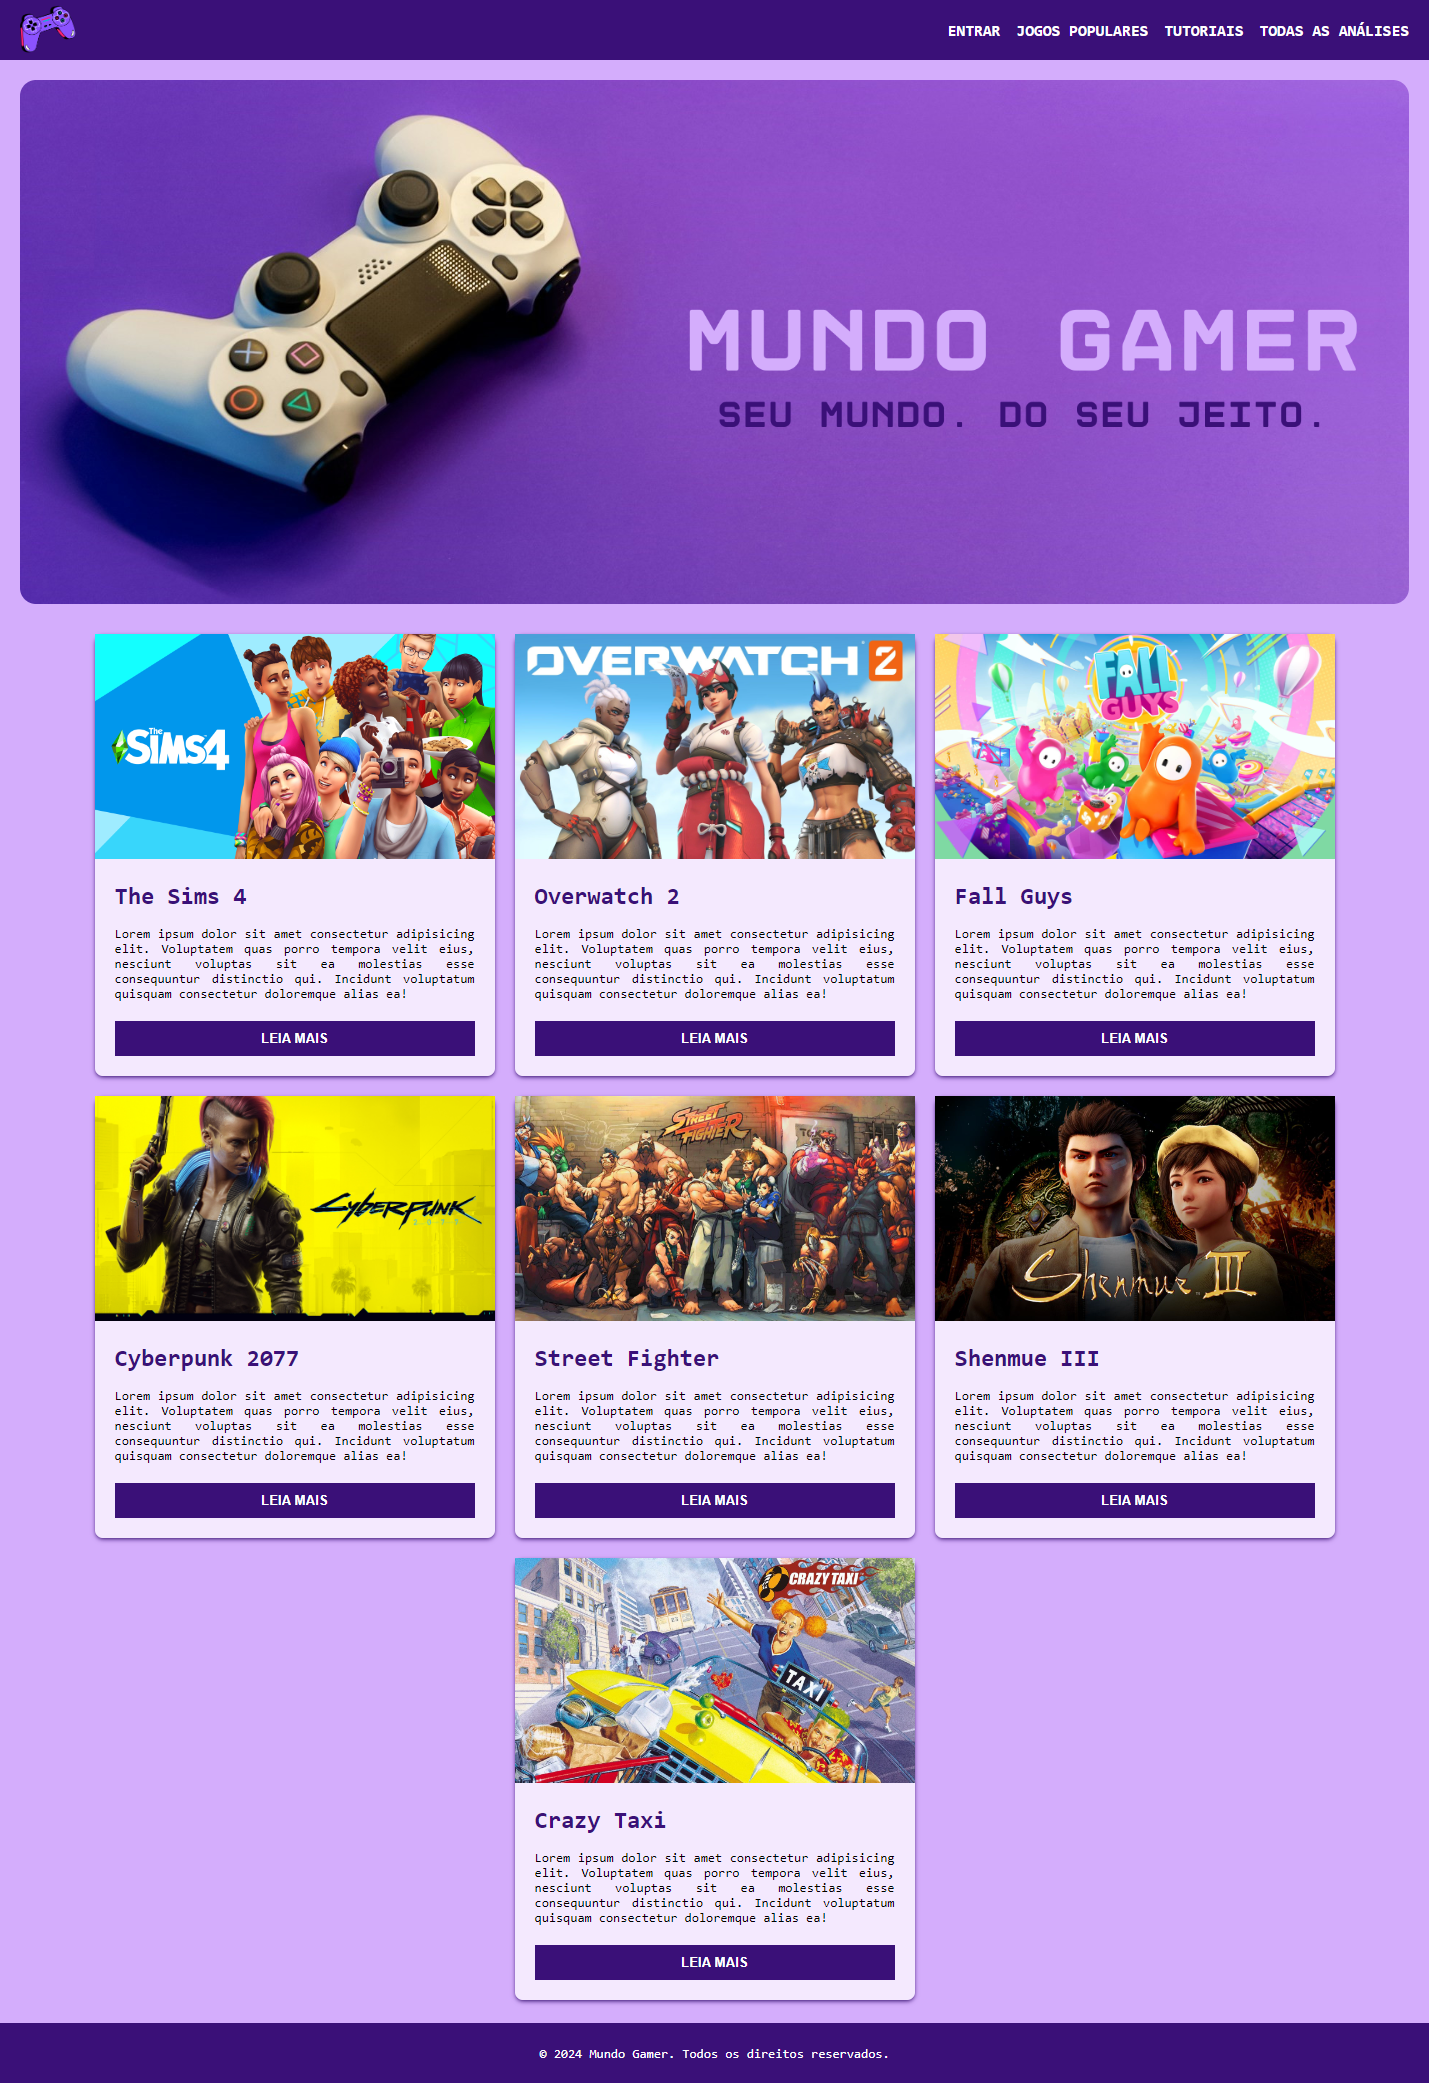
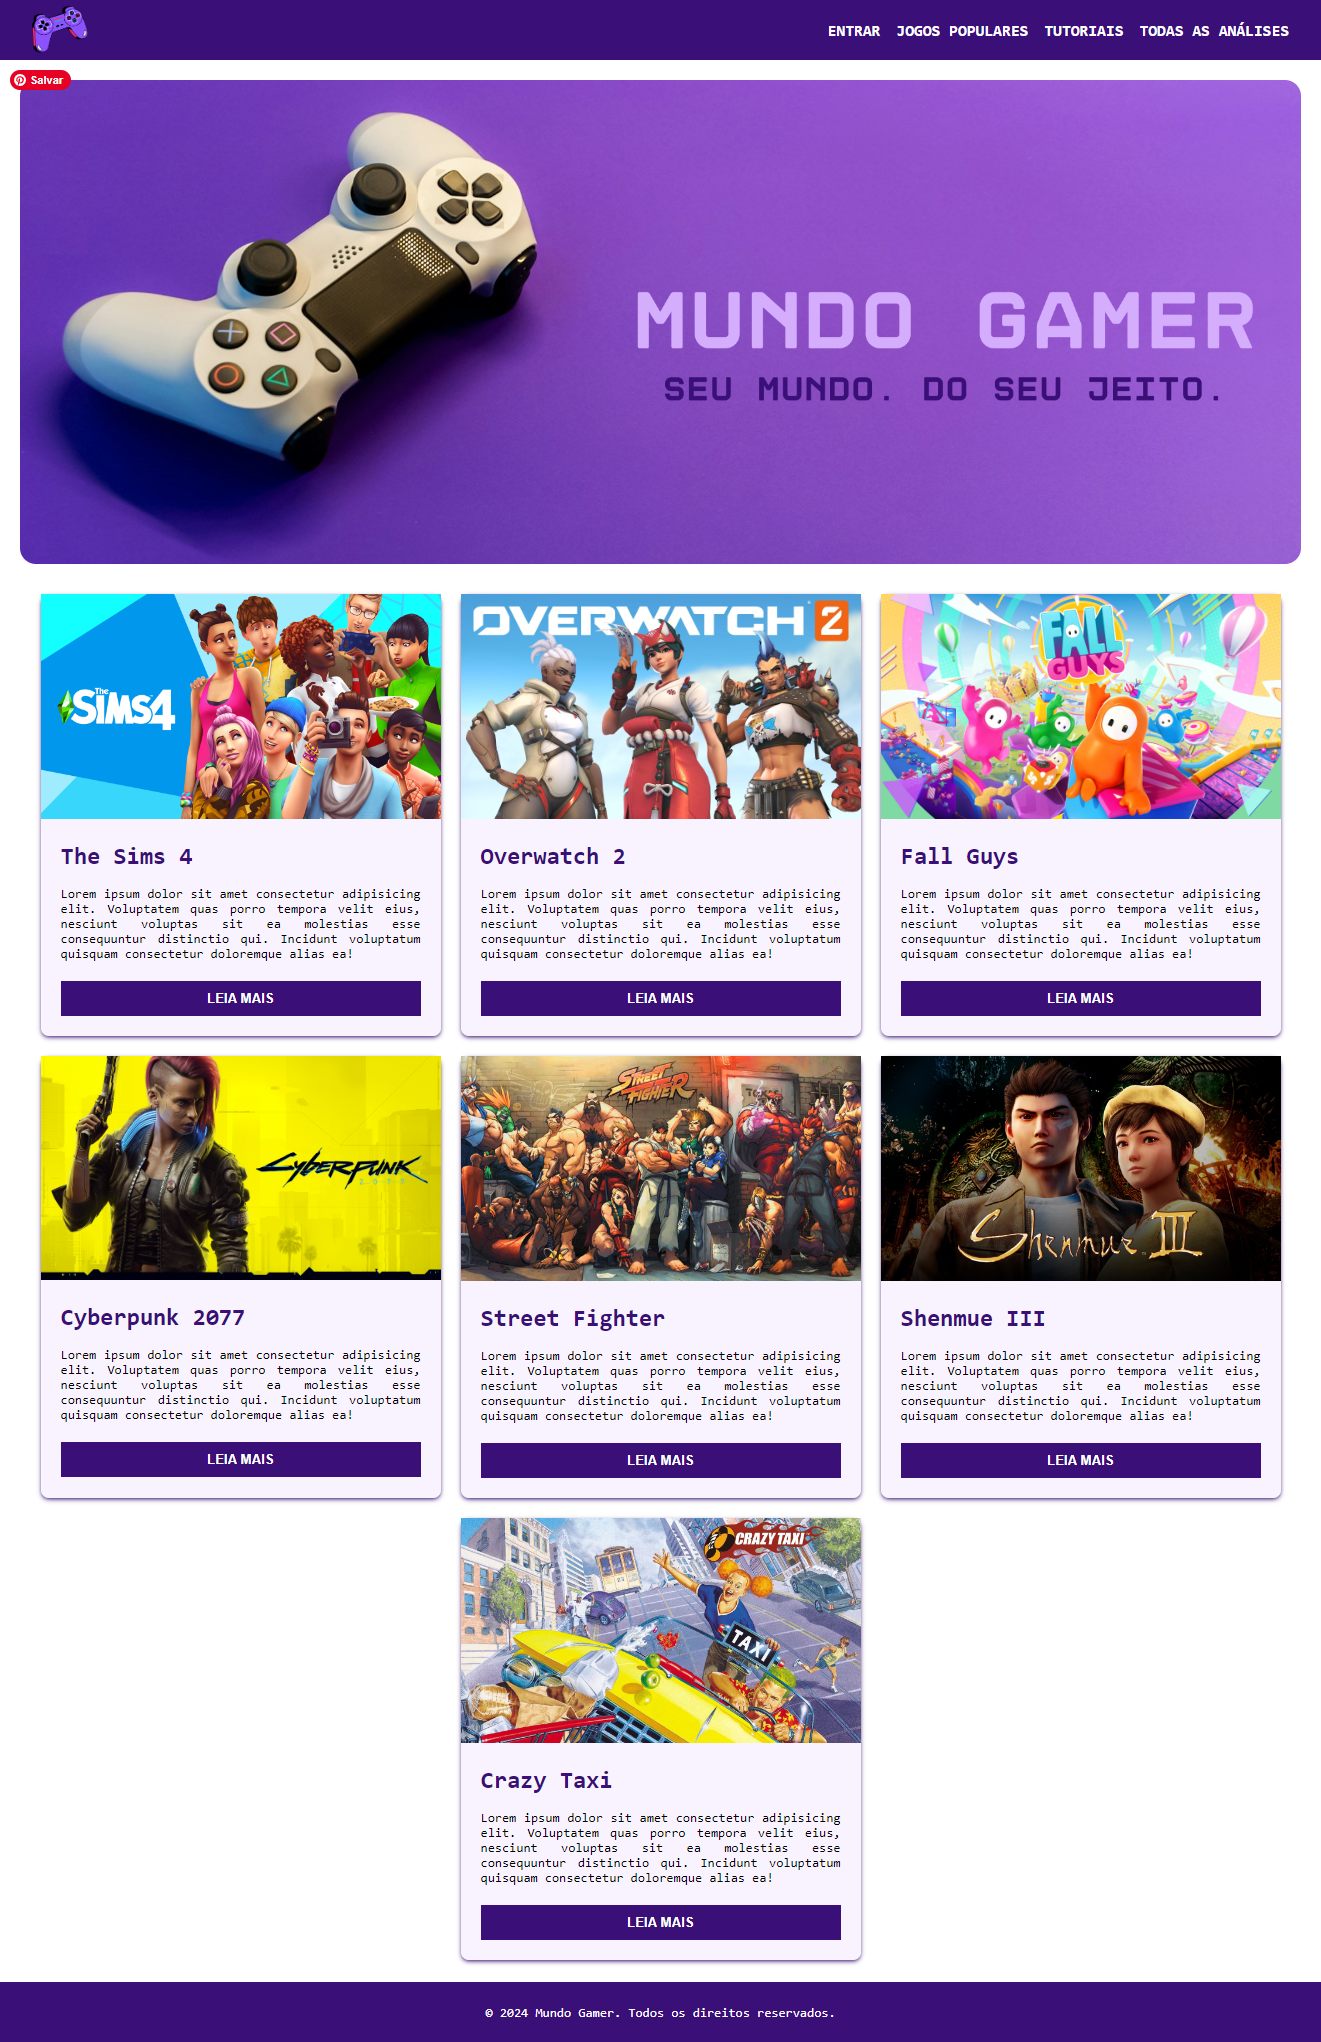
Alerando cor do body

diff --git a/Etapa02/REACT/semana01-projeto/src/components/Card.css b/Etapa02/REACT/semana01-projeto/src/components/Card.css
@@ -9,7 +9,7 @@
   margin: 0.625rem;
   box-shadow: rgb(58, 16, 120) 0px 2px 5px -1px, rgba(0, 0, 0, 0.3) 0px 1px 3px -1px;
   border-radius: 0.5rem;
-  background-color: #ffffffbb;
+  background-color: rgba(246, 236, 255, 0.644);
 }
 .card img {
   max-width: 100%;

diff --git a/Etapa02/REACT/semana01-projeto/src/index.css b/Etapa02/REACT/semana01-projeto/src/index.css
@@ -5,6 +5,6 @@
 }
 
 body {
-  background-color: #D4ADFC;
+  background-color: #fff;
   font-family: monospace;
 }
